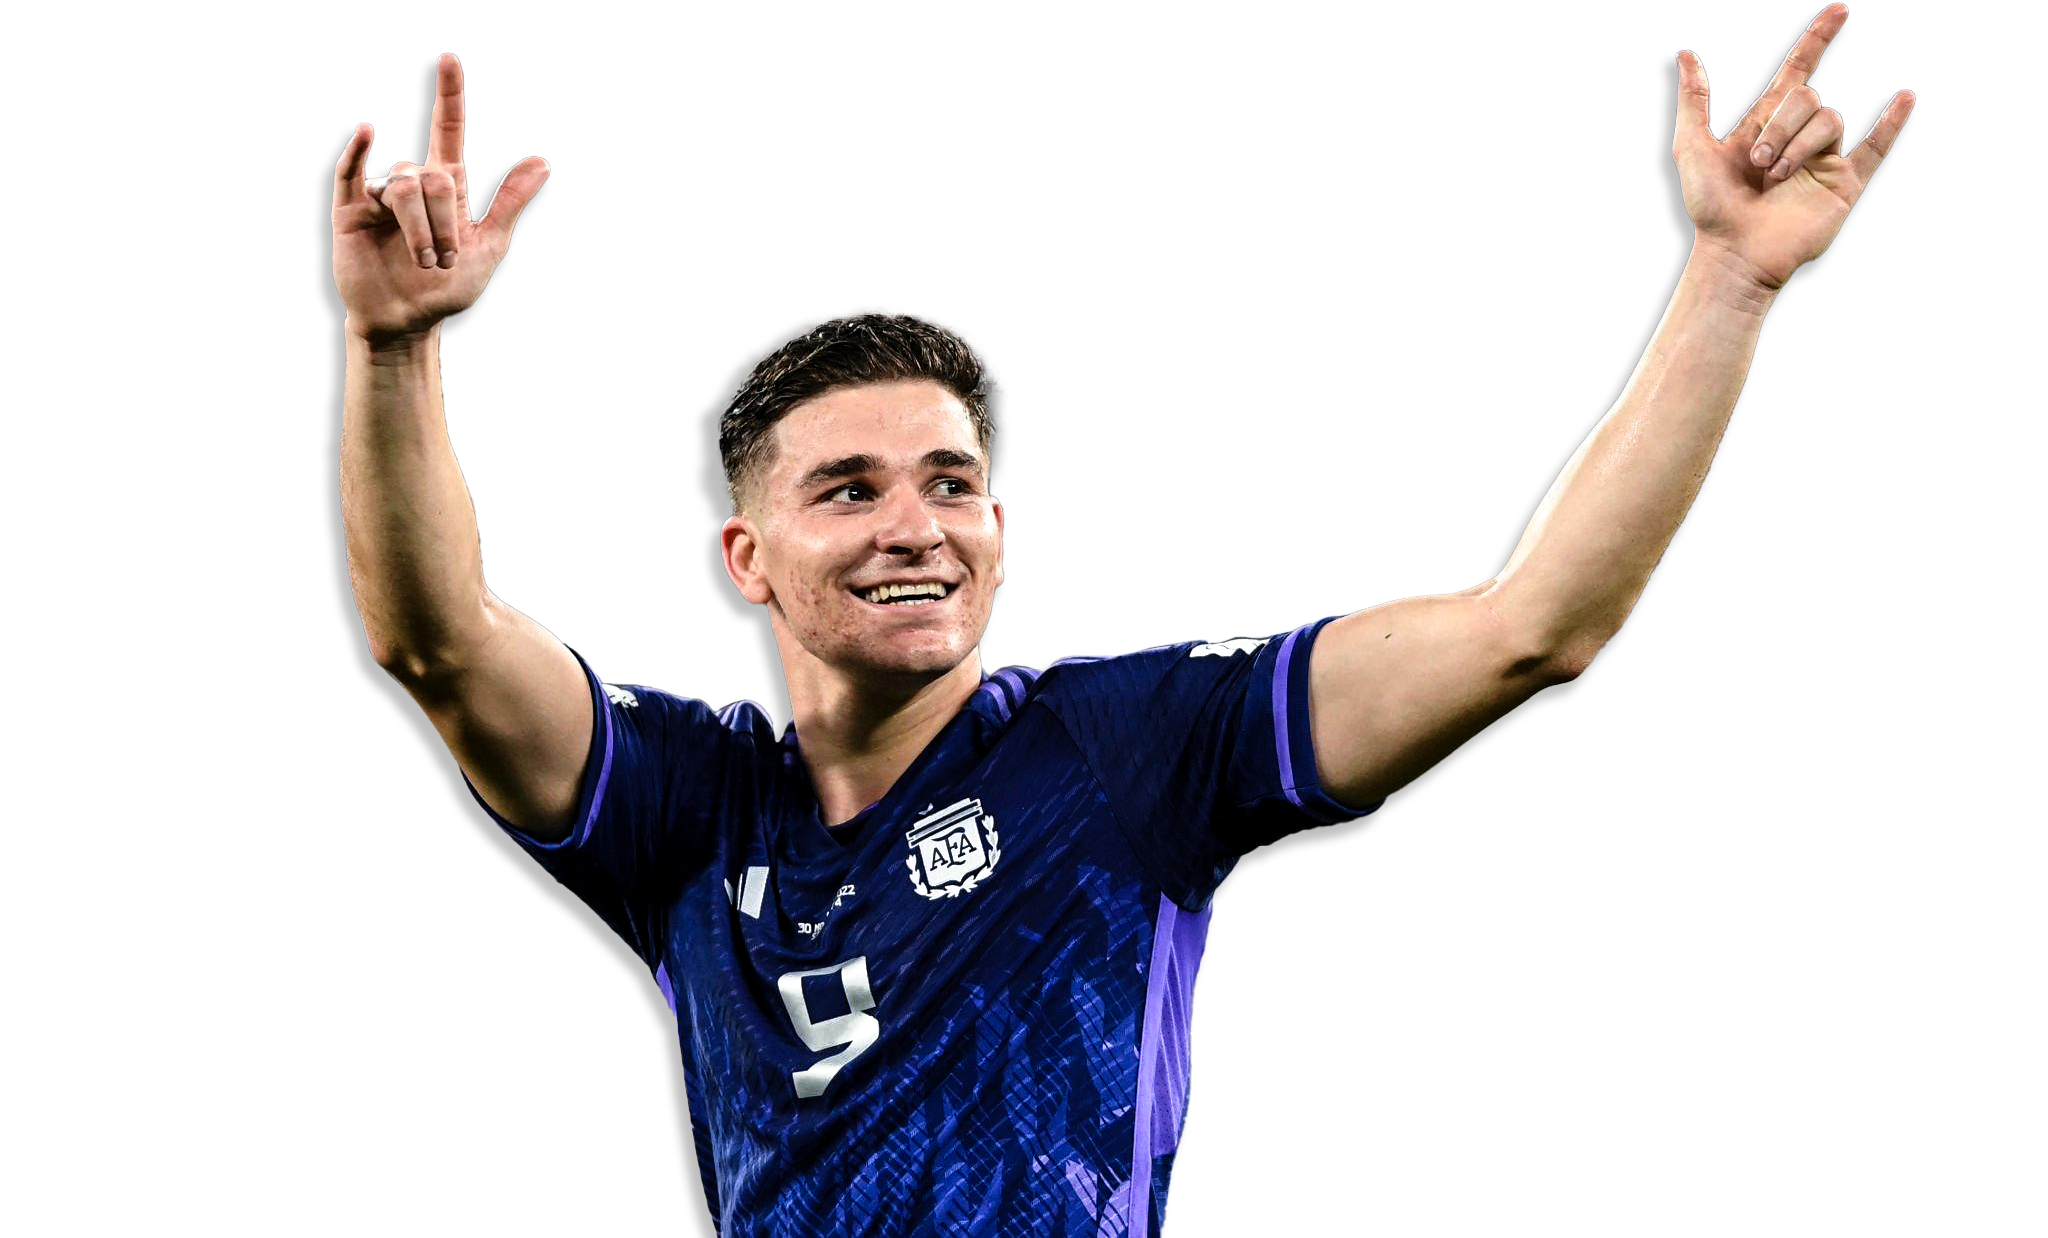
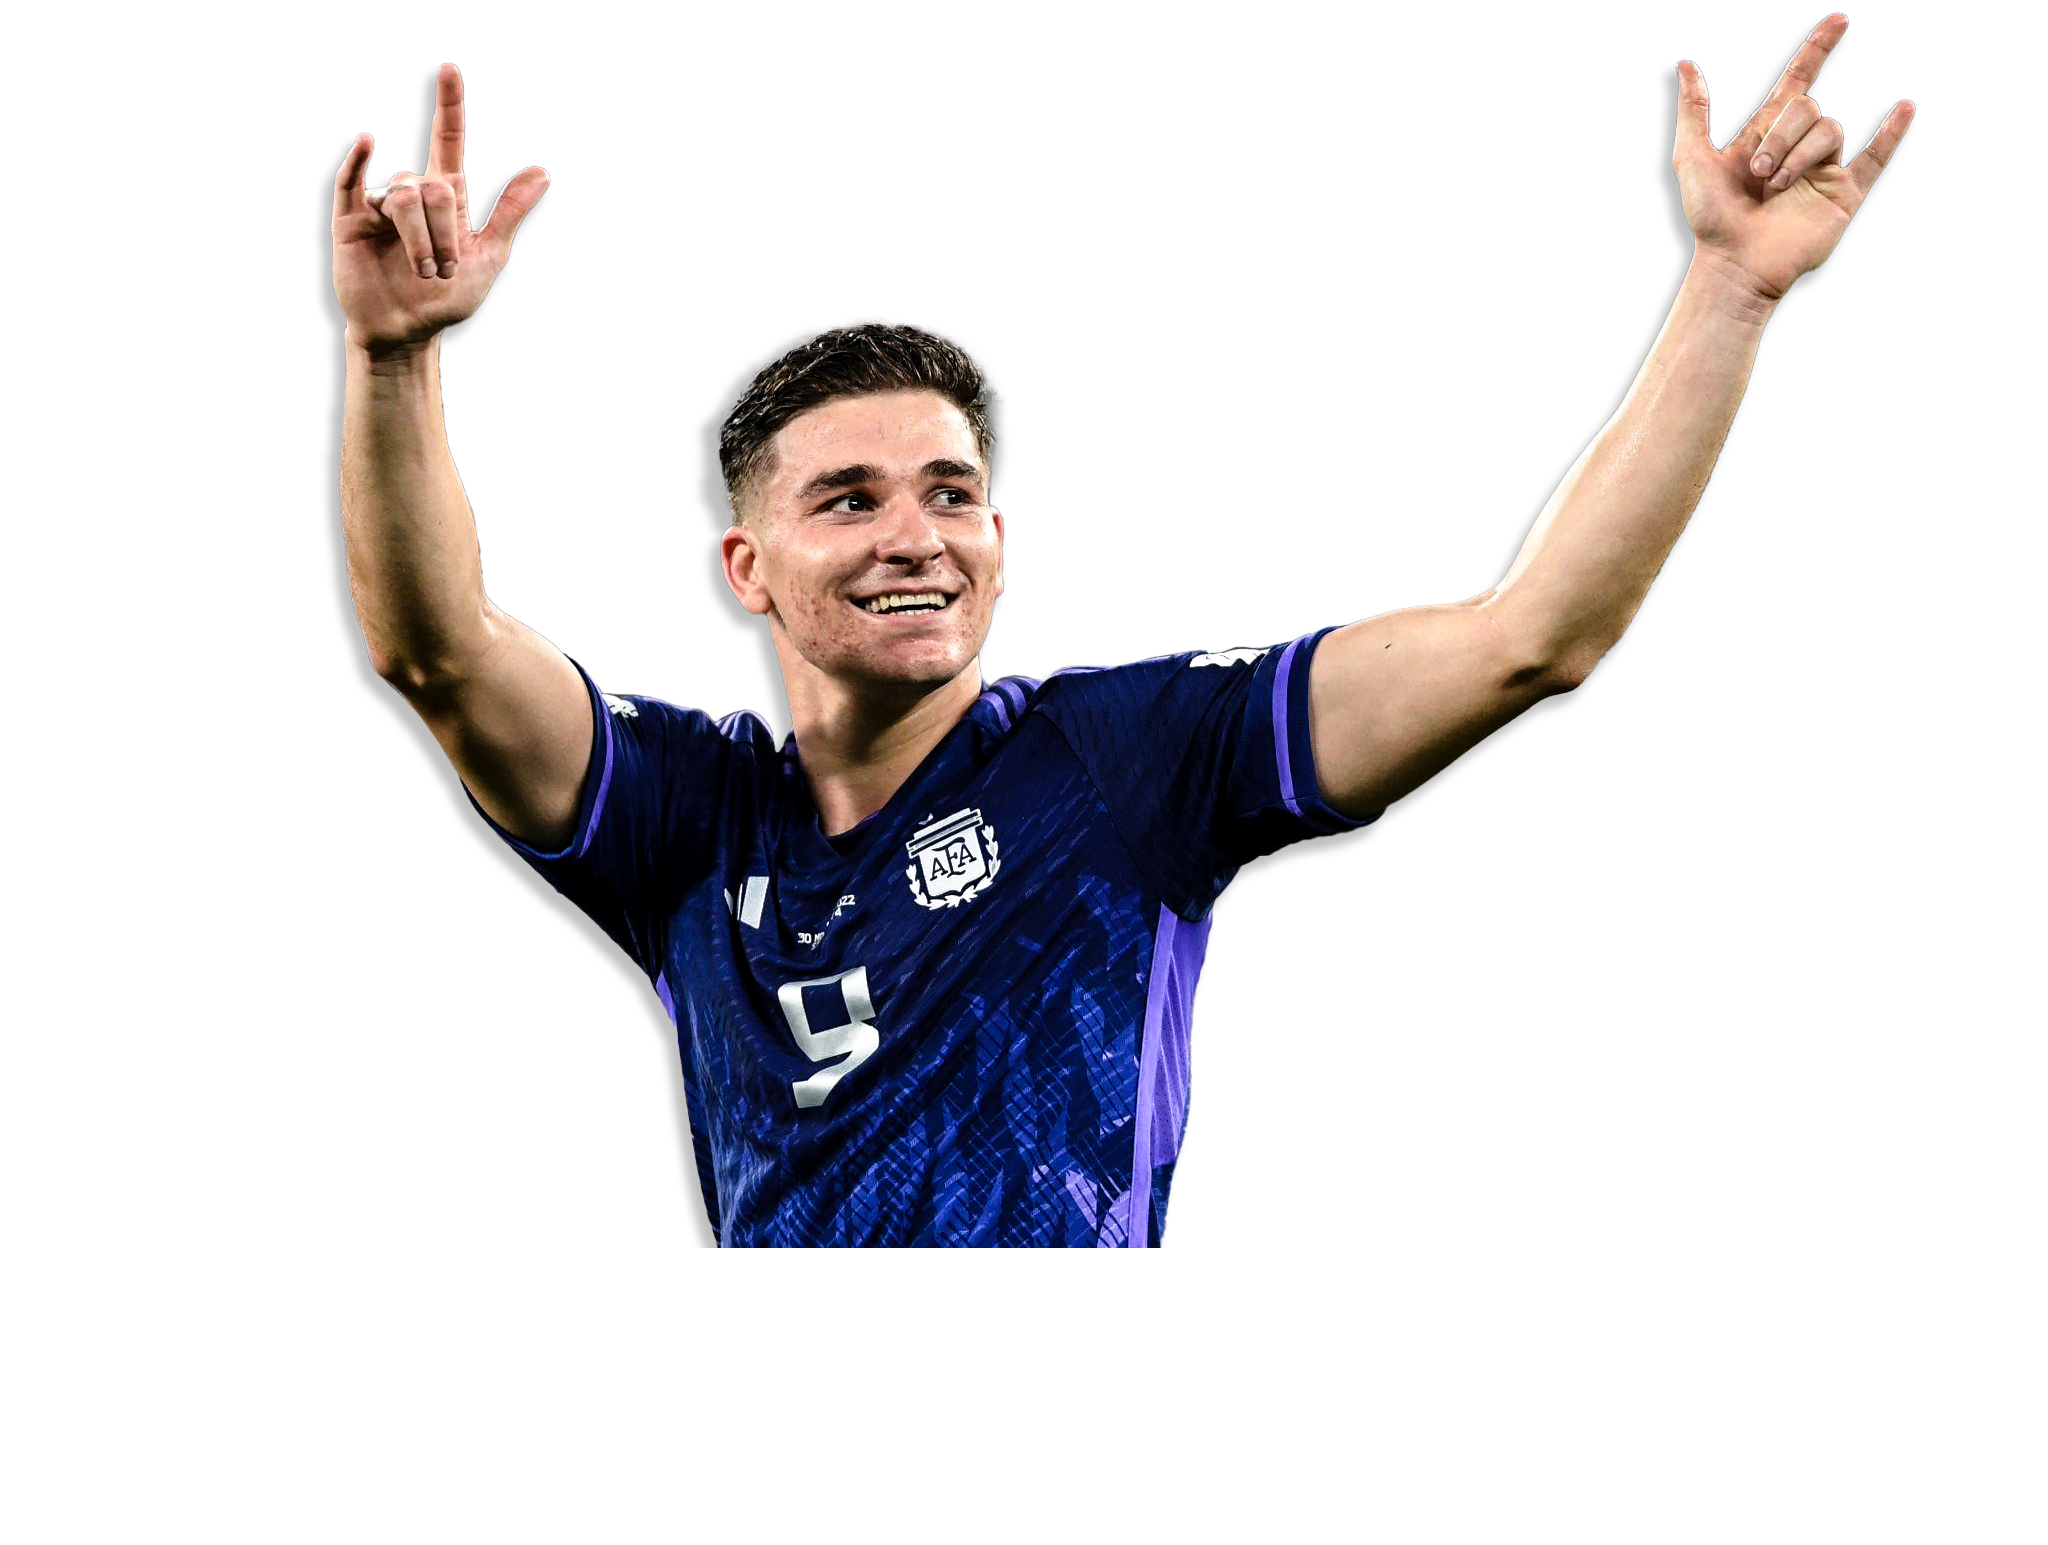
styles adjustments across the app

Changed region(s): [[0.1562, 0.0, 0.9375, 1.0]]

diff --git a/src/components/Landing/landing.module.css b/src/components/Landing/landing.module.css
@@ -1,20 +1,31 @@
 .landing-container {
-    position: relative;
     background-color: var(--primary-background);
     color: white;
     width: 100%;
-    height: 90vh
+    height: 90vh;
+    display: flex;
+    justify-content: center;
+    flex-direction: column;
+    align-items: center;
+    position: relative;
+    min-height: 540px;
 }
 
 .landing {
     display: flex;
+    flex-direction: column;
     justify-content: center;
+    align-items: center;
+    height: 100%;
+    width: 100%;
+    max-height: 700px;
+    position: absolute;
 }
 
 .landing-urban-content {
     position: absolute;
     width: 100%;
-    height: 20%;
+    height: 100%;
     display: flex;
     justify-content: center;
         
@@ -24,7 +35,6 @@
         font-size: 35vw;
         line-height: 1;
         letter-spacing: 0.3rem;
-
 
         @media (min-width: 1280px) {
             font-size: 450px;
@@ -45,14 +55,14 @@
         height: 90vw;
         mask-image: linear-gradient(to top, transparent 5%, black 60%);
     
+
         @media (min-width: 768px) {
             max-height: 1000px;
             mask-image: linear-gradient(to top, transparent 20%, black 60%);
         }
 
         @media (min-width: 1280px) {
-            max-height: 1000px;
-            mask-image: linear-gradient(to top, transparent 25%, black 50%);
+            mask-image: linear-gradient(to top, transparent 25%, black 60%);
         }
     }
 }
@@ -64,7 +74,7 @@
     @media (min-width: 768px) {
         display: block;
         position: absolute;
-        top: 35vh;
+        top: 25vh;
         right: 0%;
     }
 }
@@ -75,10 +85,15 @@
     display: flex;
     flex-direction: column;
     height: 90%;
-    margin: 1rem;
     bottom: 0;
     justify-content: end;
     width: 55%;
+
+    .landing.data {
+        margin: 0;
+        padding: 0;
+    }
+
 
     @media (min-width: 768px) {
         width: 90%;
@@ -120,7 +135,7 @@
             background-color: rgba(68, 68, 68, 0.9);
             border-radius: 10px;
             padding: 0.75rem;
-            margin: 10px 0;
+            margin-top: 10px;
             @media (min-width: 768px) {
                 width: 30%;
                 display: flex;
@@ -151,35 +166,39 @@
     }
 
 
-    .landing-icon {
+    .landing-arrow {
         display: flex;
         justify-content: center;
         padding-top: 1rem;
 
-        img{
-            width: 25px;
-            cursor: pointer;
-
-            @media (min-width: 1024px) {
-                width: 50px;
-            }
-        }
-
-        .landing-mouse {
+        
+        @media (min-width: 768px) {
             display: none;
         }
 
-
-        @media (min-width: 1024px) {
-            .landing-mouse {
-                display: block;
-            }
-
-            .landing-arrow {
-                display: none;
-            }
+        img{
+            width: 25px;
+            cursor: pointer;
         }
+    }
 
+}
+
+.landing-mouse {
+    display: none;
+
+    @media(min-width: 768px){
+        position: absolute;
+        height: 100%;
+        display: flex;
+        align-items: end;
+        justify-content: center;
+        margin-bottom: 2rem;
+        
+        img {
+            cursor: pointer;
+            width: 40px;
+        }
     }
 
 }

diff --git a/src/components/Landing/Landing.tsx b/src/components/Landing/Landing.tsx
@@ -69,21 +69,18 @@ export const Landing = () => {
                   </div>
                 ))}
               </div>
-              <div className={styles["landing-icon"]}>
+              <div className={styles["landing-arrow"]}>
                 <img
-                  className={styles["landing-arrow"]}
                   src="/src/assets/images/icons/arrow-down-white.svg"
-                  alt="mouse"
-                />
-                <img
-                  className={styles["landing-mouse"]}
-                  src="/src/assets/images/icons/mouse-white.svg"
                   alt="mouse"
                 />
               </div>
             </div>
           </div>
         </motion.div>
+        <div className={styles["landing-mouse"]}>
+          <img src="/src/assets/images/icons/mouse-white.svg" alt="mouse" />
+        </div>
       </div>
     </>
   );

diff --git a/src/components/Bio/bio.module.css b/src/components/Bio/bio.module.css
@@ -6,6 +6,7 @@
     height: 100vh;
     display: flex;
     justify-content: center;
+    min-height: 540px;
 }
 
 
@@ -106,11 +107,11 @@
         flex-direction: column;
         line-height: 1.3;
         max-height: 5rem;
-        overflow-y: scroll;
+        overflow-y: auto;
         margin-bottom: 1rem;
+        min-height: 60px;
 
         @media (min-width: 768px) {
-            overflow-y: hidden;
             max-height:none;
         }
     

diff --git a/src/components/Goals/goals.module.css b/src/components/Goals/goals.module.css
@@ -8,6 +8,7 @@
     flex-direction: column;
     align-items: center;
     justify-content: center;
+    min-height: 540px;
 }
 
 
